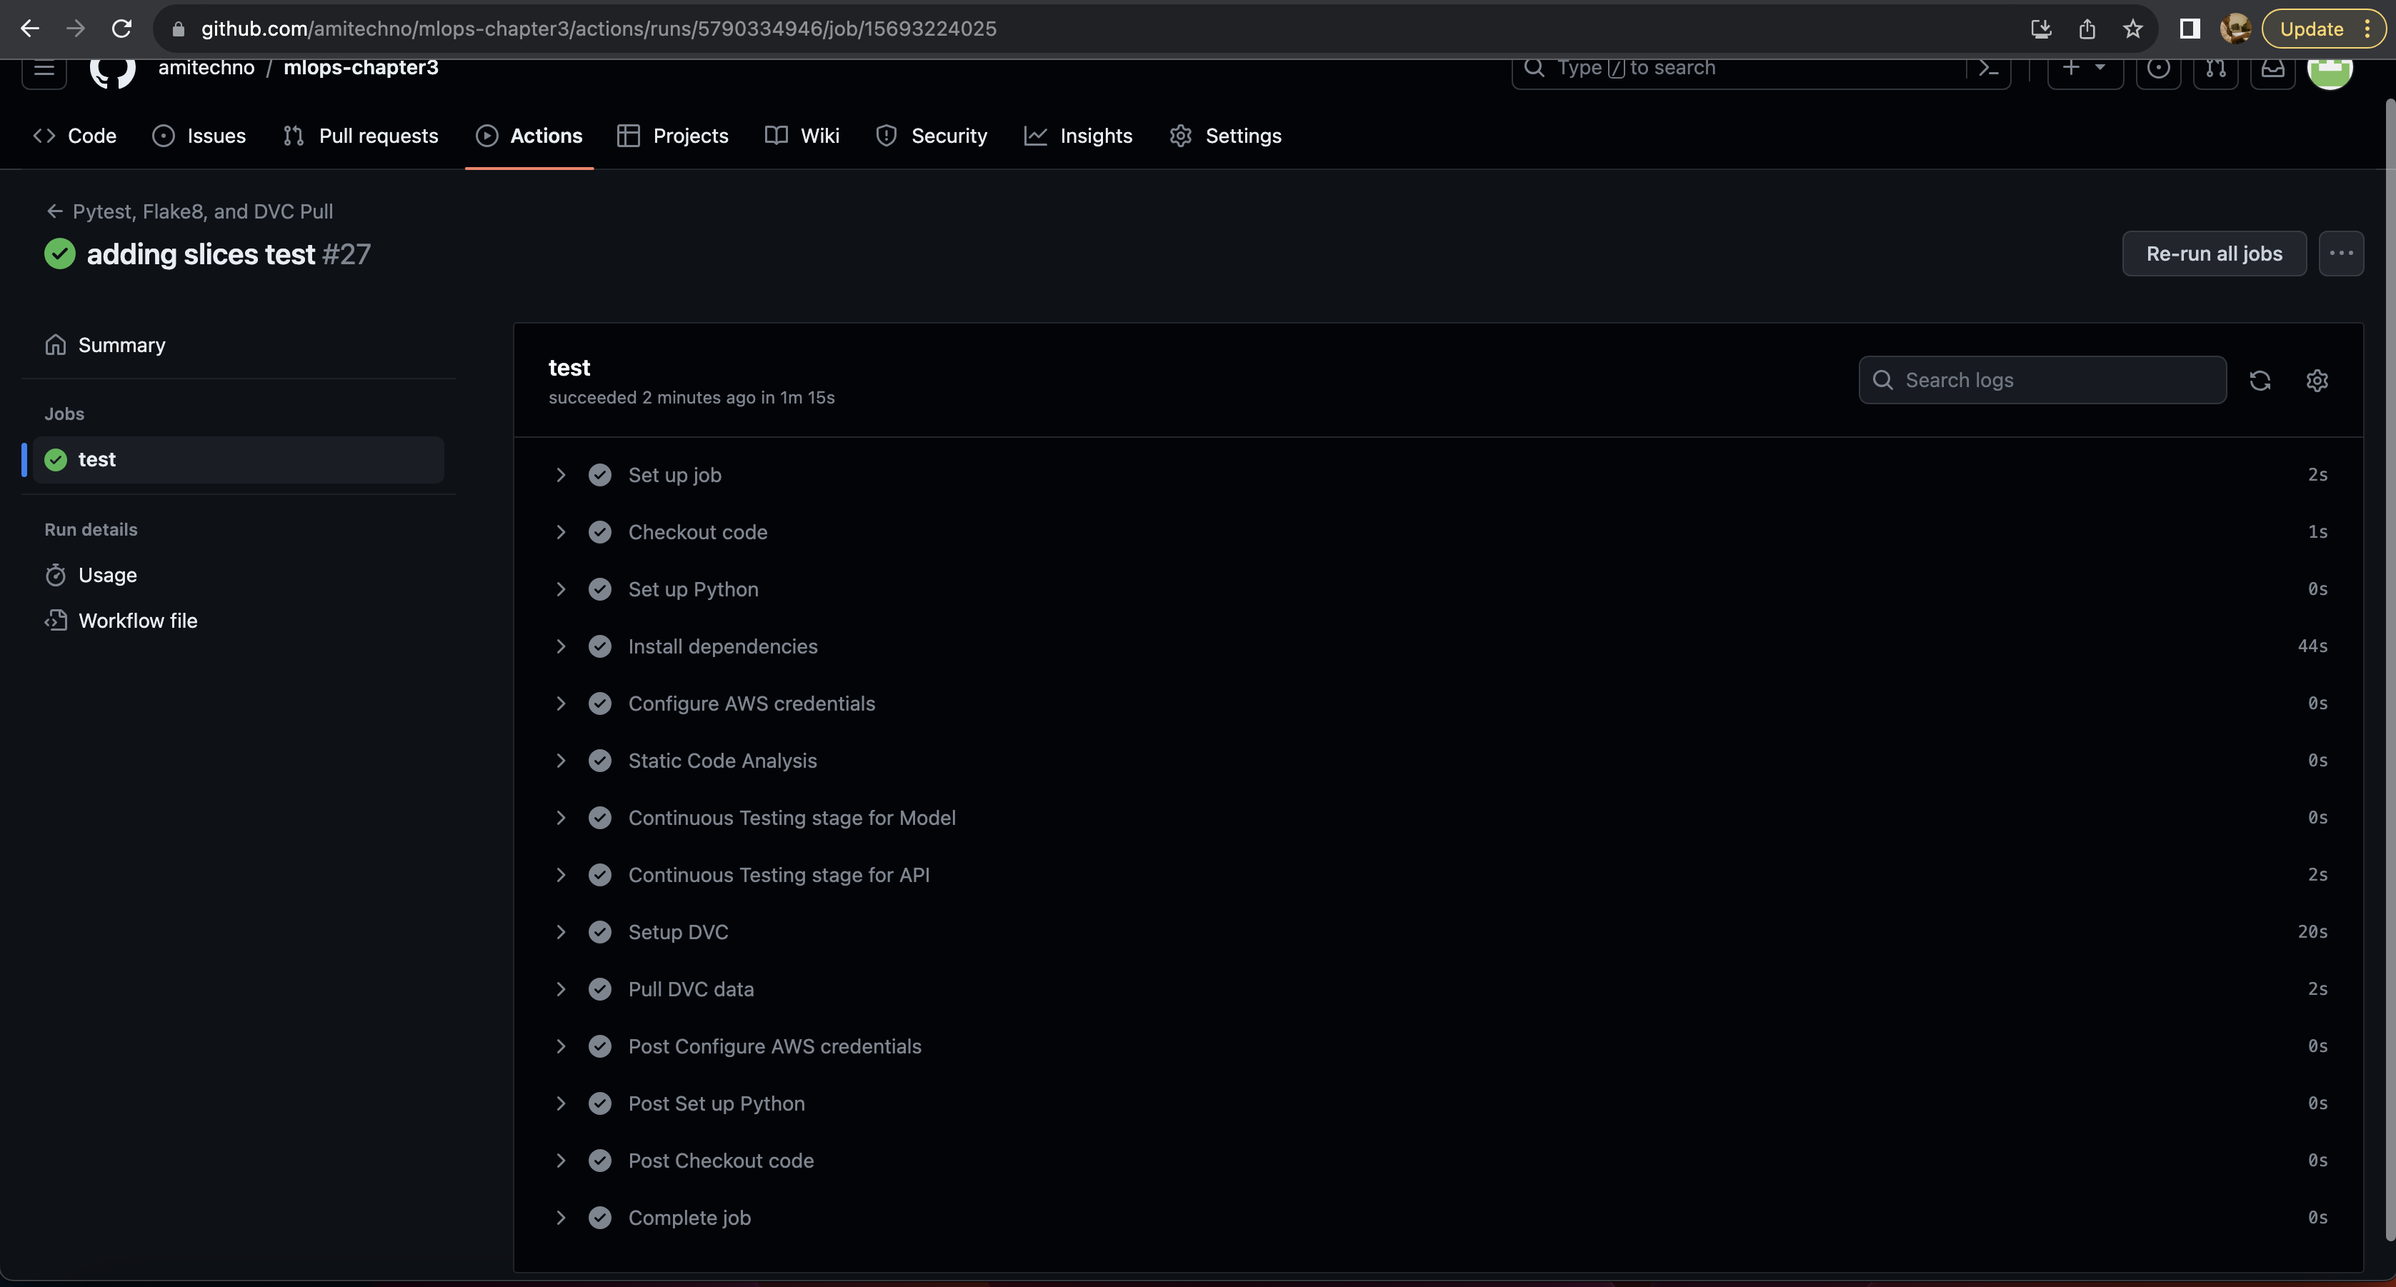
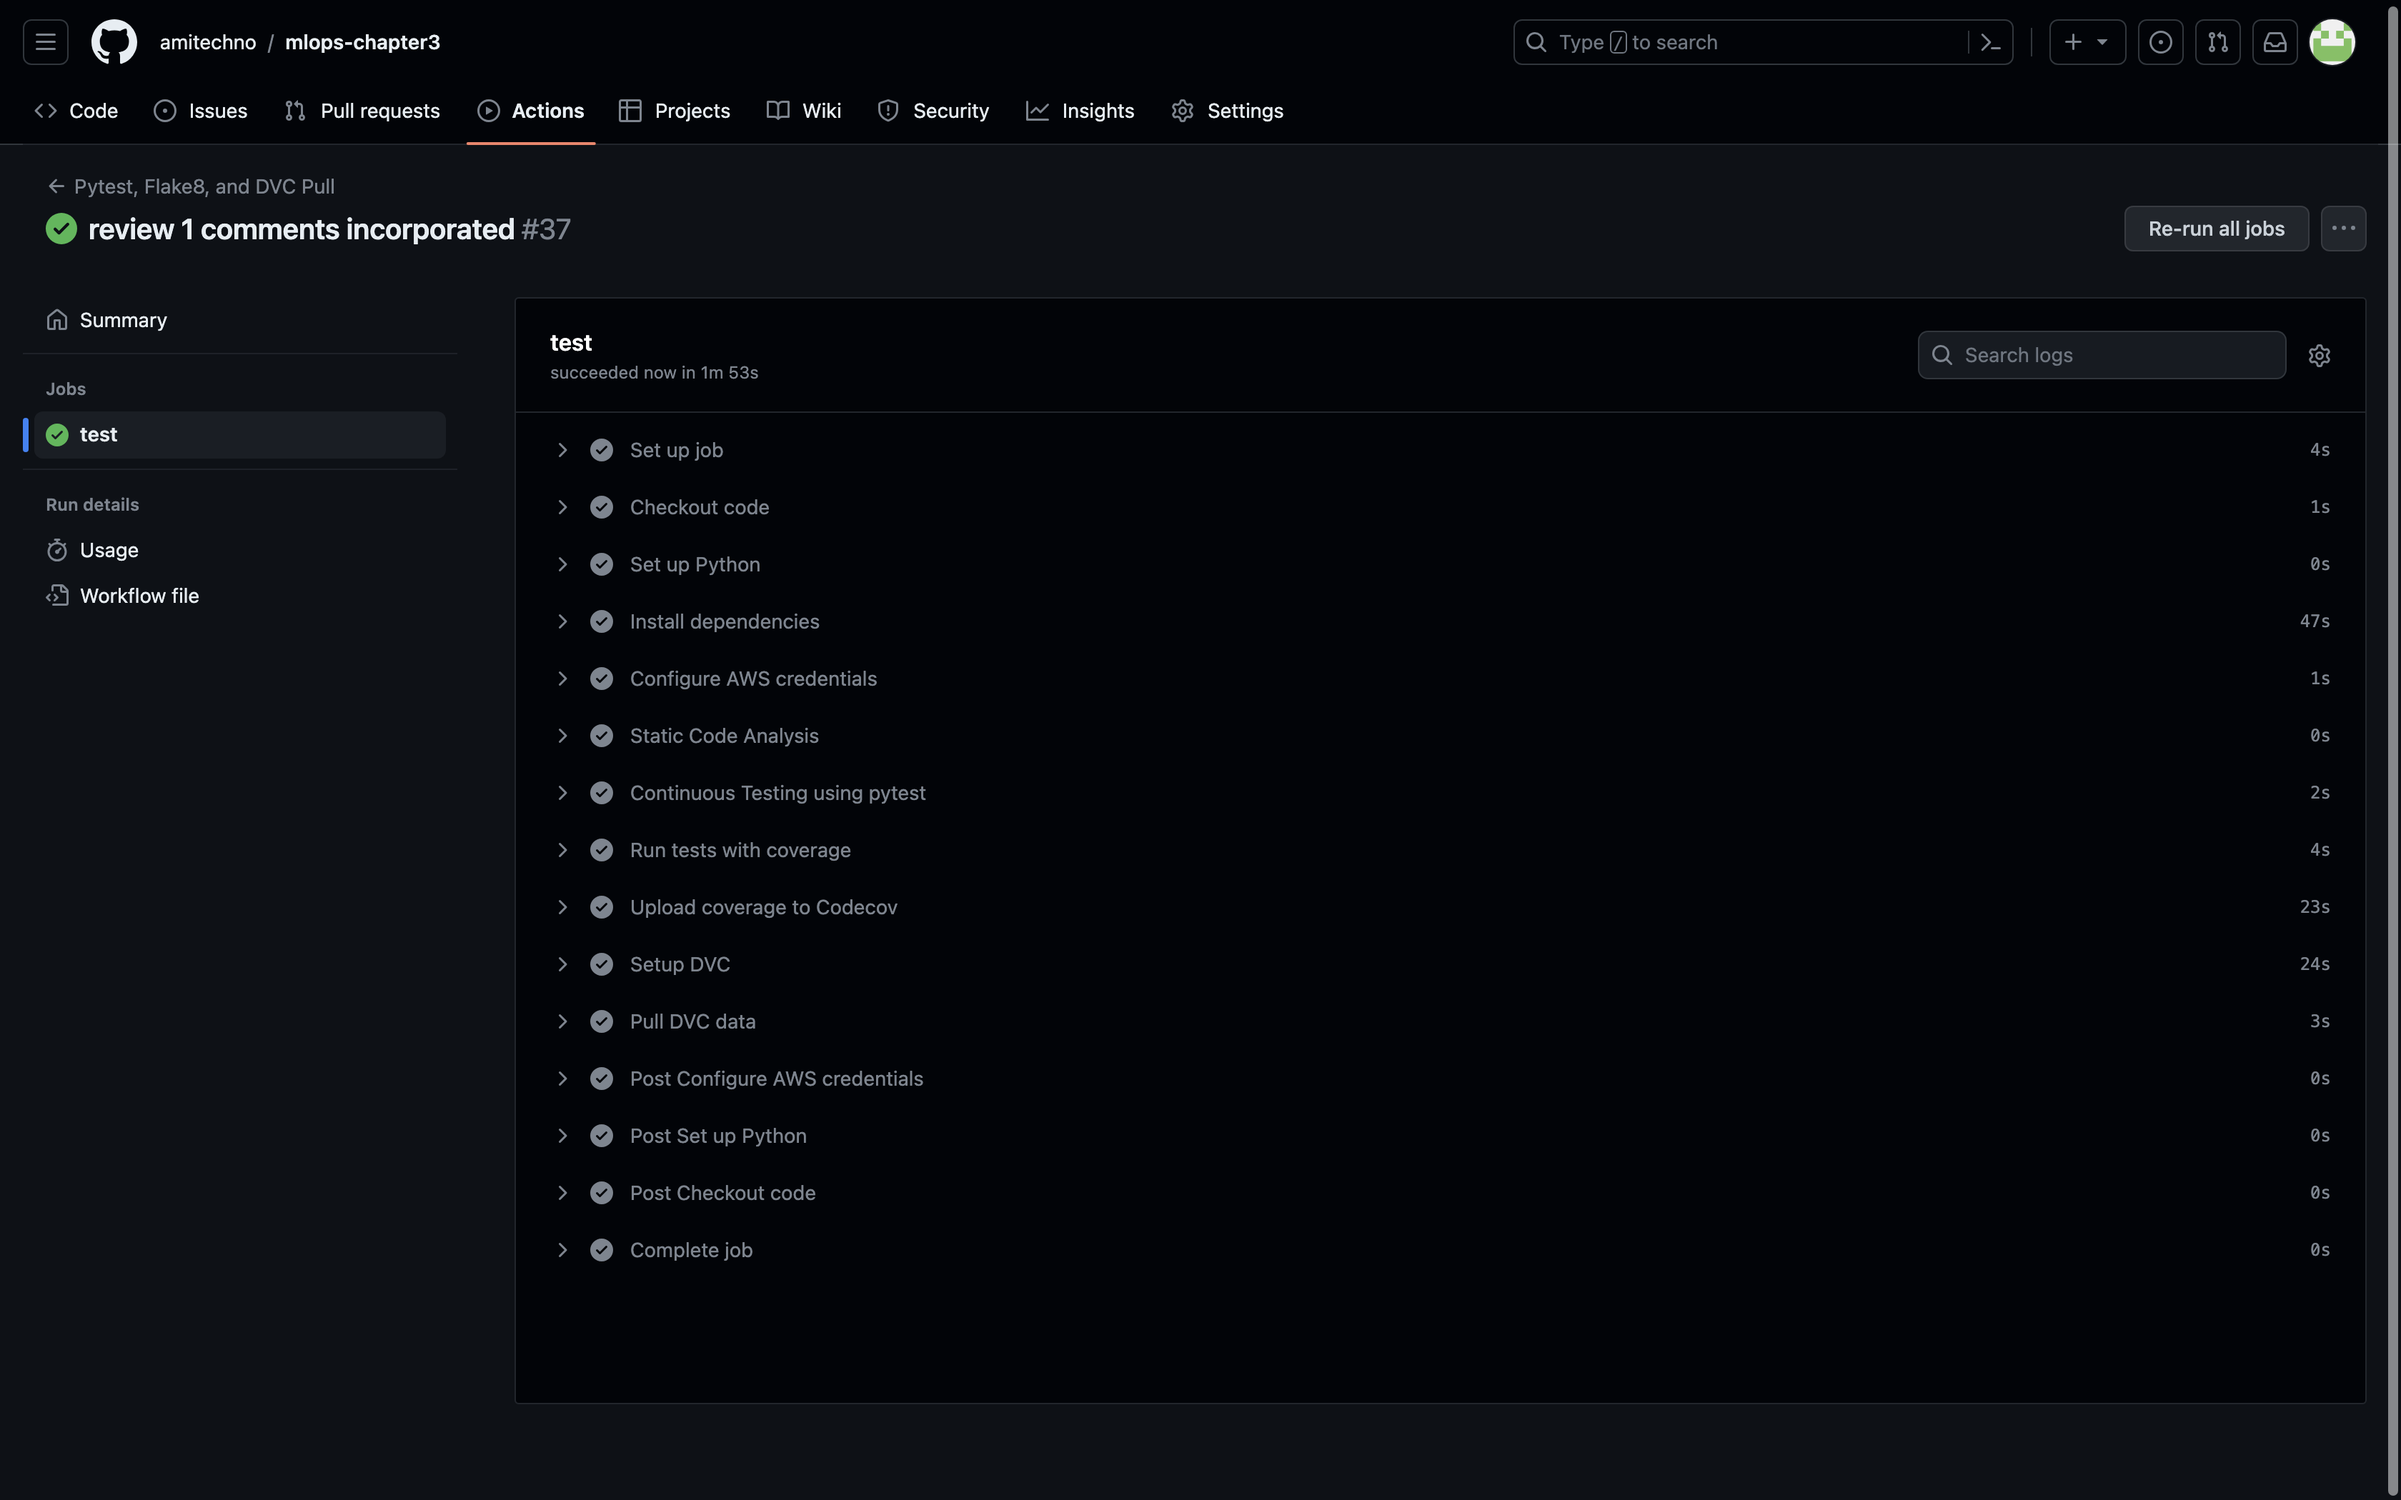
adding results

diff --git a/README.md b/README.md
@@ -1,76 +1,103 @@
-Working in a command line environment is recommended for ease of use with git and dvc. If on Windows, WSL1 or 2 is recommended.
+# Project 3: Census Income Prediction
 
-# Environment Set up
-* Download and install conda if you don’t have it already.
-    * Use the supplied requirements file to create a new environment, or
-    * conda create -n [envname] "python=3.8" scikit-learn dvc pandas numpy pytest jupyter jupyterlab fastapi uvicorn -c conda-forge
-    * Install git either through conda (“conda install git”) or through your CLI, e.g. sudo apt-get git.
+This project aims to predict whether an individual's income is greater than $50K per year or not using a machine learning model. It uses a FastAPI-based web service to accept input data and provide predictions, along with various features such as data validation, model explanation, and more.
 
-## Repositories
+## Table of Contents
 
-* Create a directory for the project and initialize Git and DVC.
-   * As you work on the code, continually commit changes. Trained models you want to keep must be committed to DVC.
-* Connect your local Git repository to GitHub.
+- [Project Overview](#project-overview)
+- [Installation](#installation)
+- - [DVC Installation](#dvc-installation)
+- [Usage](#usage)
+- - [Data Slicing](#data-slicing)
+- [API Documentation](#api-documentation)
+- [Testing](#testing)
+- [Continuous Integration and Deployment](#continuous-integration-and-deployment)
+- [Code Coverage](#code-coverage)
+- [Data Version Control](#data-version-control)
+- [License](#license)
 
-## Set up S3
+## Project Overview
 
-* In your CLI environment install the<a href="https://docs.aws.amazon.com/cli/latest/userguide/cli-chap-install.html" target="_blank"> AWS CLI tool</a>.
-* In the navigation bar in the Udacity classroom select **Open AWS Gateway** and then click **Open AWS Console**. You will not need the AWS Access Key ID or Secret Access Key provided here.
-* From the Services drop down select S3 and then click Create bucket.
-* Give your bucket a name, the rest of the options can remain at their default.
+The project involves the following main components:
 
-To use your new S3 bucket from the AWS CLI you will need to create an IAM user with the appropriate permissions. The full instructions can be found <a href="https://docs.aws.amazon.com/IAM/latest/UserGuide/id_users_create.html#id_users_create_console" target="_blank">here</a>, what follows is a paraphrasing:
+- **app.py**: The main FastAPI application that provides the web service for making predictions.
+- **train_model.py**: Module for training the machine learning model.
+- **data**: Directory containing the dataset used for training the model.
+- **tests**: Directory containing test scripts for testing the application.
 
-* Sign in to the IAM console <a href="https://console.aws.amazon.com/iam/" target="_blank">here</a> or from the Services drop down on the upper navigation bar.
-* In the left navigation bar select **Users**, then choose **Add user**.
-* Give the user a name and select **Programmatic access**.
-* In the permissions selector, search for S3 and give it **AmazonS3FullAccess**
-* Tags are optional and can be skipped.
-* After reviewing your choices, click create user. 
-* Configure your AWS CLI to use the Access key ID and Secret Access key.
+## Installation
 
-## GitHub Actions
+1. Clone this repository:
 
-* Setup GitHub Actions on your repository. You can use one of the pre-made GitHub Actions if at a minimum it runs pytest and flake8 on push and requires both to pass without error.
-   * Make sure you set up the GitHub Action to have the same version of Python as you used in development.
-* Add your <a href="https://github.com/marketplace/actions/configure-aws-credentials-action-for-github-actions" target="_blank">AWS credentials to the Action</a>.
-* Set up <a href="https://github.com/iterative/setup-dvc" target="_blank">DVC in the action</a> and specify a command to `dvc pull`.
+   ```bash
+   git clone https://github.com/yourusername/project3.git
+   cd mlops-chapter3
+   ```
 
-## Data
+2. Create a virtual environment and install dependencies:
 
-* Download census.csv from the data folder in the starter repository.
-   * Information on the dataset can be found <a href="https://archive.ics.uci.edu/ml/datasets/census+income" target="_blank">here</a>.
-* Create a remote DVC remote pointing to your S3 bucket and commit the data.
-* This data is messy, try to open it in pandas and see what you get.
-* To clean it, use your favorite text editor to remove all spaces.
-* Commit this modified data to DVC under a new name (we often want to keep the raw data untouched but then can keep updating the cooked version).
+   ```bash
+   conda create -n project3-env python=3.8
+   conda activate project3-env
+   conda install --file requirements.txt
+   ```
 
-## Model
+### DVC Installation
 
-* Using the starter code, write a machine learning model that trains on the clean data and saves the model. Complete any function that has been started.
-* Write unit tests for at least 3 functions in the model code.
-* Write a function that outputs the performance of the model on slices of the data.
-   * Suggestion: for simplicity, the function can just output the performance on slices of just the categorical features.
-* Write a model card using the provided template.
+Install DVC and configure it to use the S3 remote for data version control:
 
-## API Creation
+```bash
+pip install dvc dvc[s3]
+dvc remote add -d s3remote s3://your-bucket-name/path/to/data
+```
 
-* Create a RESTful API using FastAPI this must implement:
-   * GET on the root giving a welcome message.
-   * POST that does model inference.
-   * Type hinting must be used.
-   * Use a Pydantic model to ingest the body from POST. This model should contain an example.
-    * Hint: the data has names with hyphens and Python does not allow those as variable names. Do not modify the column names in the csv and instead use the functionality of FastAPI/Pydantic/etc to deal with this.
-* Write 3 unit tests to test the API (one for the GET and two for POST, one that tests each prediction).
+## Usage
 
-## API Deployment
+1. Start the FastAPI application:
 
-* Sign up for an account on Render: Go to https://render.com/ and sign up for a free account if you don't have one already.
-* Create a New Web Service: Once you have signed in to your Render account, click on "Create a new web service" to get started.
-* Choose a Repository: Select the repository that contains your project code. Render will automatically detect the language and framework used in your project.
-* Configure the Service: Configure the web service settings according to your project requirements. This will include choosing a name for the service, selecting a branch to deploy, and specifying the build command and port to run your application.
-* Deploy Your Project: Click on "Create Web Service" to start the deployment process. Render will automatically build and deploy your project.
-* Access Your App: Once the deployment is complete, Render will provide you with a URL where your app is accessible.
-* Verify Your App: Visit the provided URL in your web browser to verify that your app is running correctly.
-* Continuous Deployment: Render supports continuous deployment, which means that every time you push changes to your project's repository, Render will automatically build and deploy the latest version of your app.
-* Custom Domains (Optional): If you want to use a custom domain for your app, you can configure it in the Render dashboard.
+   ```bash
+   uvicorn app:app --reload
+   ```
+
+2. Open a web browser and go to `http://localhost:8000` to access the API.
+
+### Data Slicing
+
+Run the data slicing script to compute performance on model slices:
+
+```bash
+python compute_slices_script.py
+```
+
+## API Documentation
+
+- API documentation and interactive Swagger UI can be accessed at `http://localhost:8000/docs`.
+
+## Testing
+
+Run tests using the following command:
+
+```bash
+pytest test
+```
+
+## Continuous Integration and Deployment
+
+The project includes GitHub Actions for continuous integration. Commits to the `main` branch are automatically tested and deployed.
+Render is used for the continuous deployment.
+
+## Code Coverage
+
+To check code coverage, run:
+
+```bash
+coverage run -m pytest test
+coverage report -m
+```
+
+
+
+## License
+
+This project is licensed under the [MIT License](LICENSE.txt).
+```
